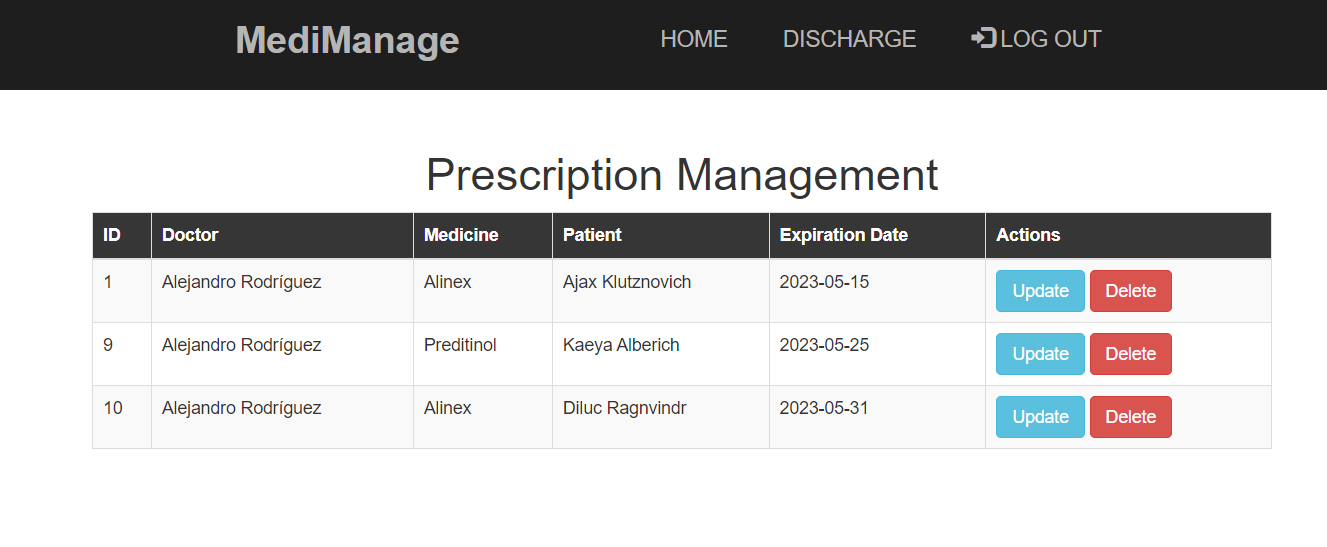
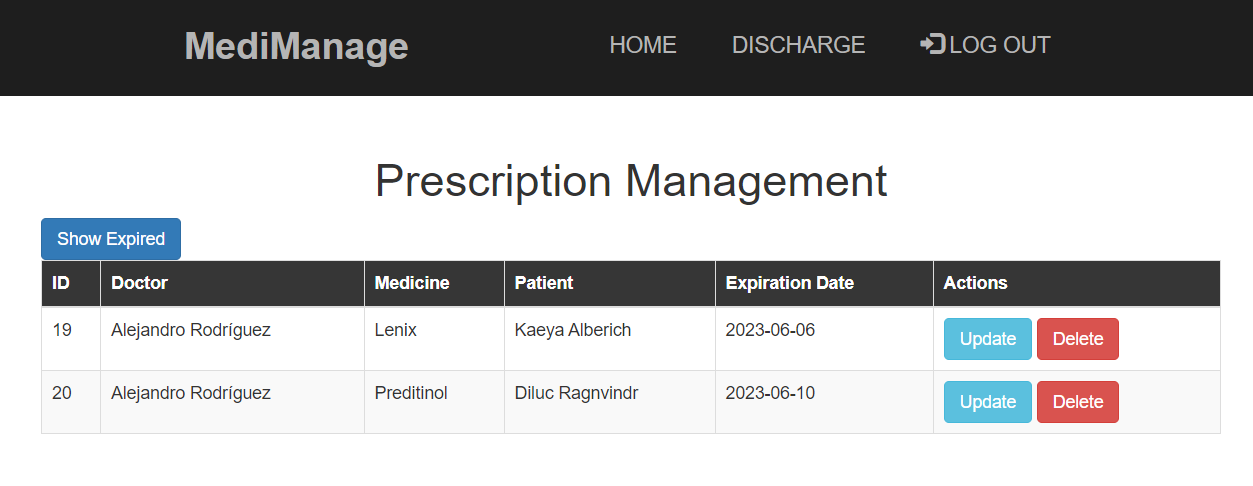
docs(README, docs): update README

diff --git a/README.md b/README.md
@@ -21,7 +21,7 @@ This is a project proposed by our teacher for the assignature of Development Env
 
 To achieve this, I decided to use Spring Boot to create an API REST to make HTTP petitions (POST, GET, PUT, and DELETE) to every entity (table) of the database, Thymeleaf to interact with the data received from the backend, JQuery to send HTTP petitions to the backend, MySQL for the database, and Docker to make the application portable.   
 
-I ended up adding more features that the ones initially asked for, as I felt it was the minimum a web application should have and be able to do. I also intend to keep adding more features if I have the time, such as webpages to manage the `Medicines` and `Patients` entities, another to edit the user account as `Doctors` entity when logged in, or an option to see the medical prescriptions whose expiration date have not expired yet, among others.   
+I ended up adding more features that the ones initially asked for, as I felt it was the minimum a web application should have and be able to do. I also intend to keep adding more features if I have the time, such as webpages to manage the `Medicines` and `Patients` entities, another to edit the user account as `Doctors` entity when logged in, among others.   
 
 ### Database Schema
 
@@ -145,7 +145,7 @@ You will be asked to enter your full name, email address, and a password. Once y
 
 ### Prescriptions Management
 
-This is the homepage you'll see once signed in. You can see a list with the data from the `Prescriptions` table, along with a column with two buttons to update or delete the entry.   
+This is the homepage you'll see once signed in. You can see a table with the data from the `Prescriptions` table, along with a column with two buttons to update or delete the entry. There's also a button to show/hide the expired prescriptions if the user wants to.   
 
 The data you see will be the one associated with your Doctor account. You wouldn't be able to see the prescriptions associated to another doctors.   
 
